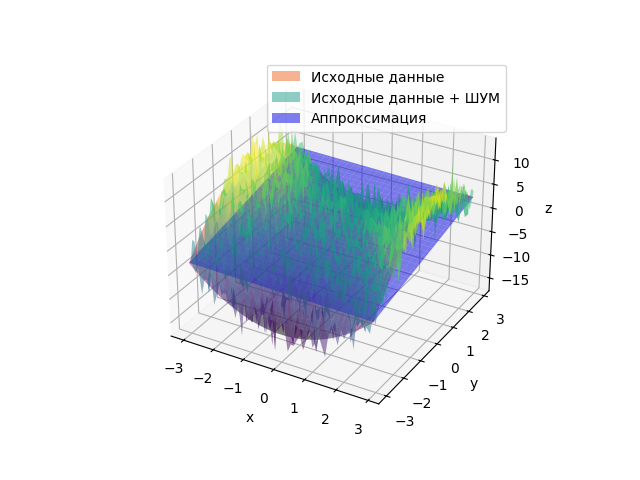
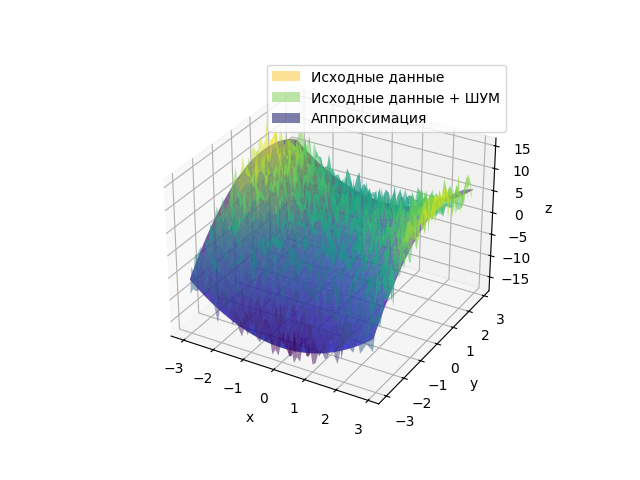
добавила коэфф апроксимации

Changed region(s): [[0.25, 0.125, 0.8438, 0.75], [0.7188, 0.5312, 0.8438, 0.5938], [0.625, 0.2812, 0.6875, 0.3125]]

diff --git a/1081_Ferafontova.py b/1081_Ferafontova.py
@@ -6,15 +6,16 @@ x = np.arange(-3, 3, 0.1) # диапазон x
 y = np.arange(-3, 3, 0.1) # диапазон y
 
 X, Y = np.meshgrid(x, y) # координатные оси
-Z = X**2 - Y**2 + Y # исходные данные
+Z = X**2 - Y**2 + 2*Y # исходные данные
 
 r = np.random.normal(0, 2, size=Z.shape) # белый шум
 F = Z + r # данные + шум
 # f для того, чтобы в один график добавить и исходные, и с шумом данные
 
-A = np.ones((len(x) * len(y), 3)) # массив
-A[:, 1] = X.flatten() # сглаживание?
+A = np.ones((len(x) * len(y), 4)) # массив
+A[:, 1] = X.flatten()**2 # сглаживание?
 A[:, 2] = Y.flatten() 
+A[:, 3] = Y.flatten()**2
 result = np.linalg.lstsq(A, F.flatten()) # массив результатов
 
 ZA = np.dot (A, result[0]).reshape(F.shape) # аппроксимирующая поверхность
